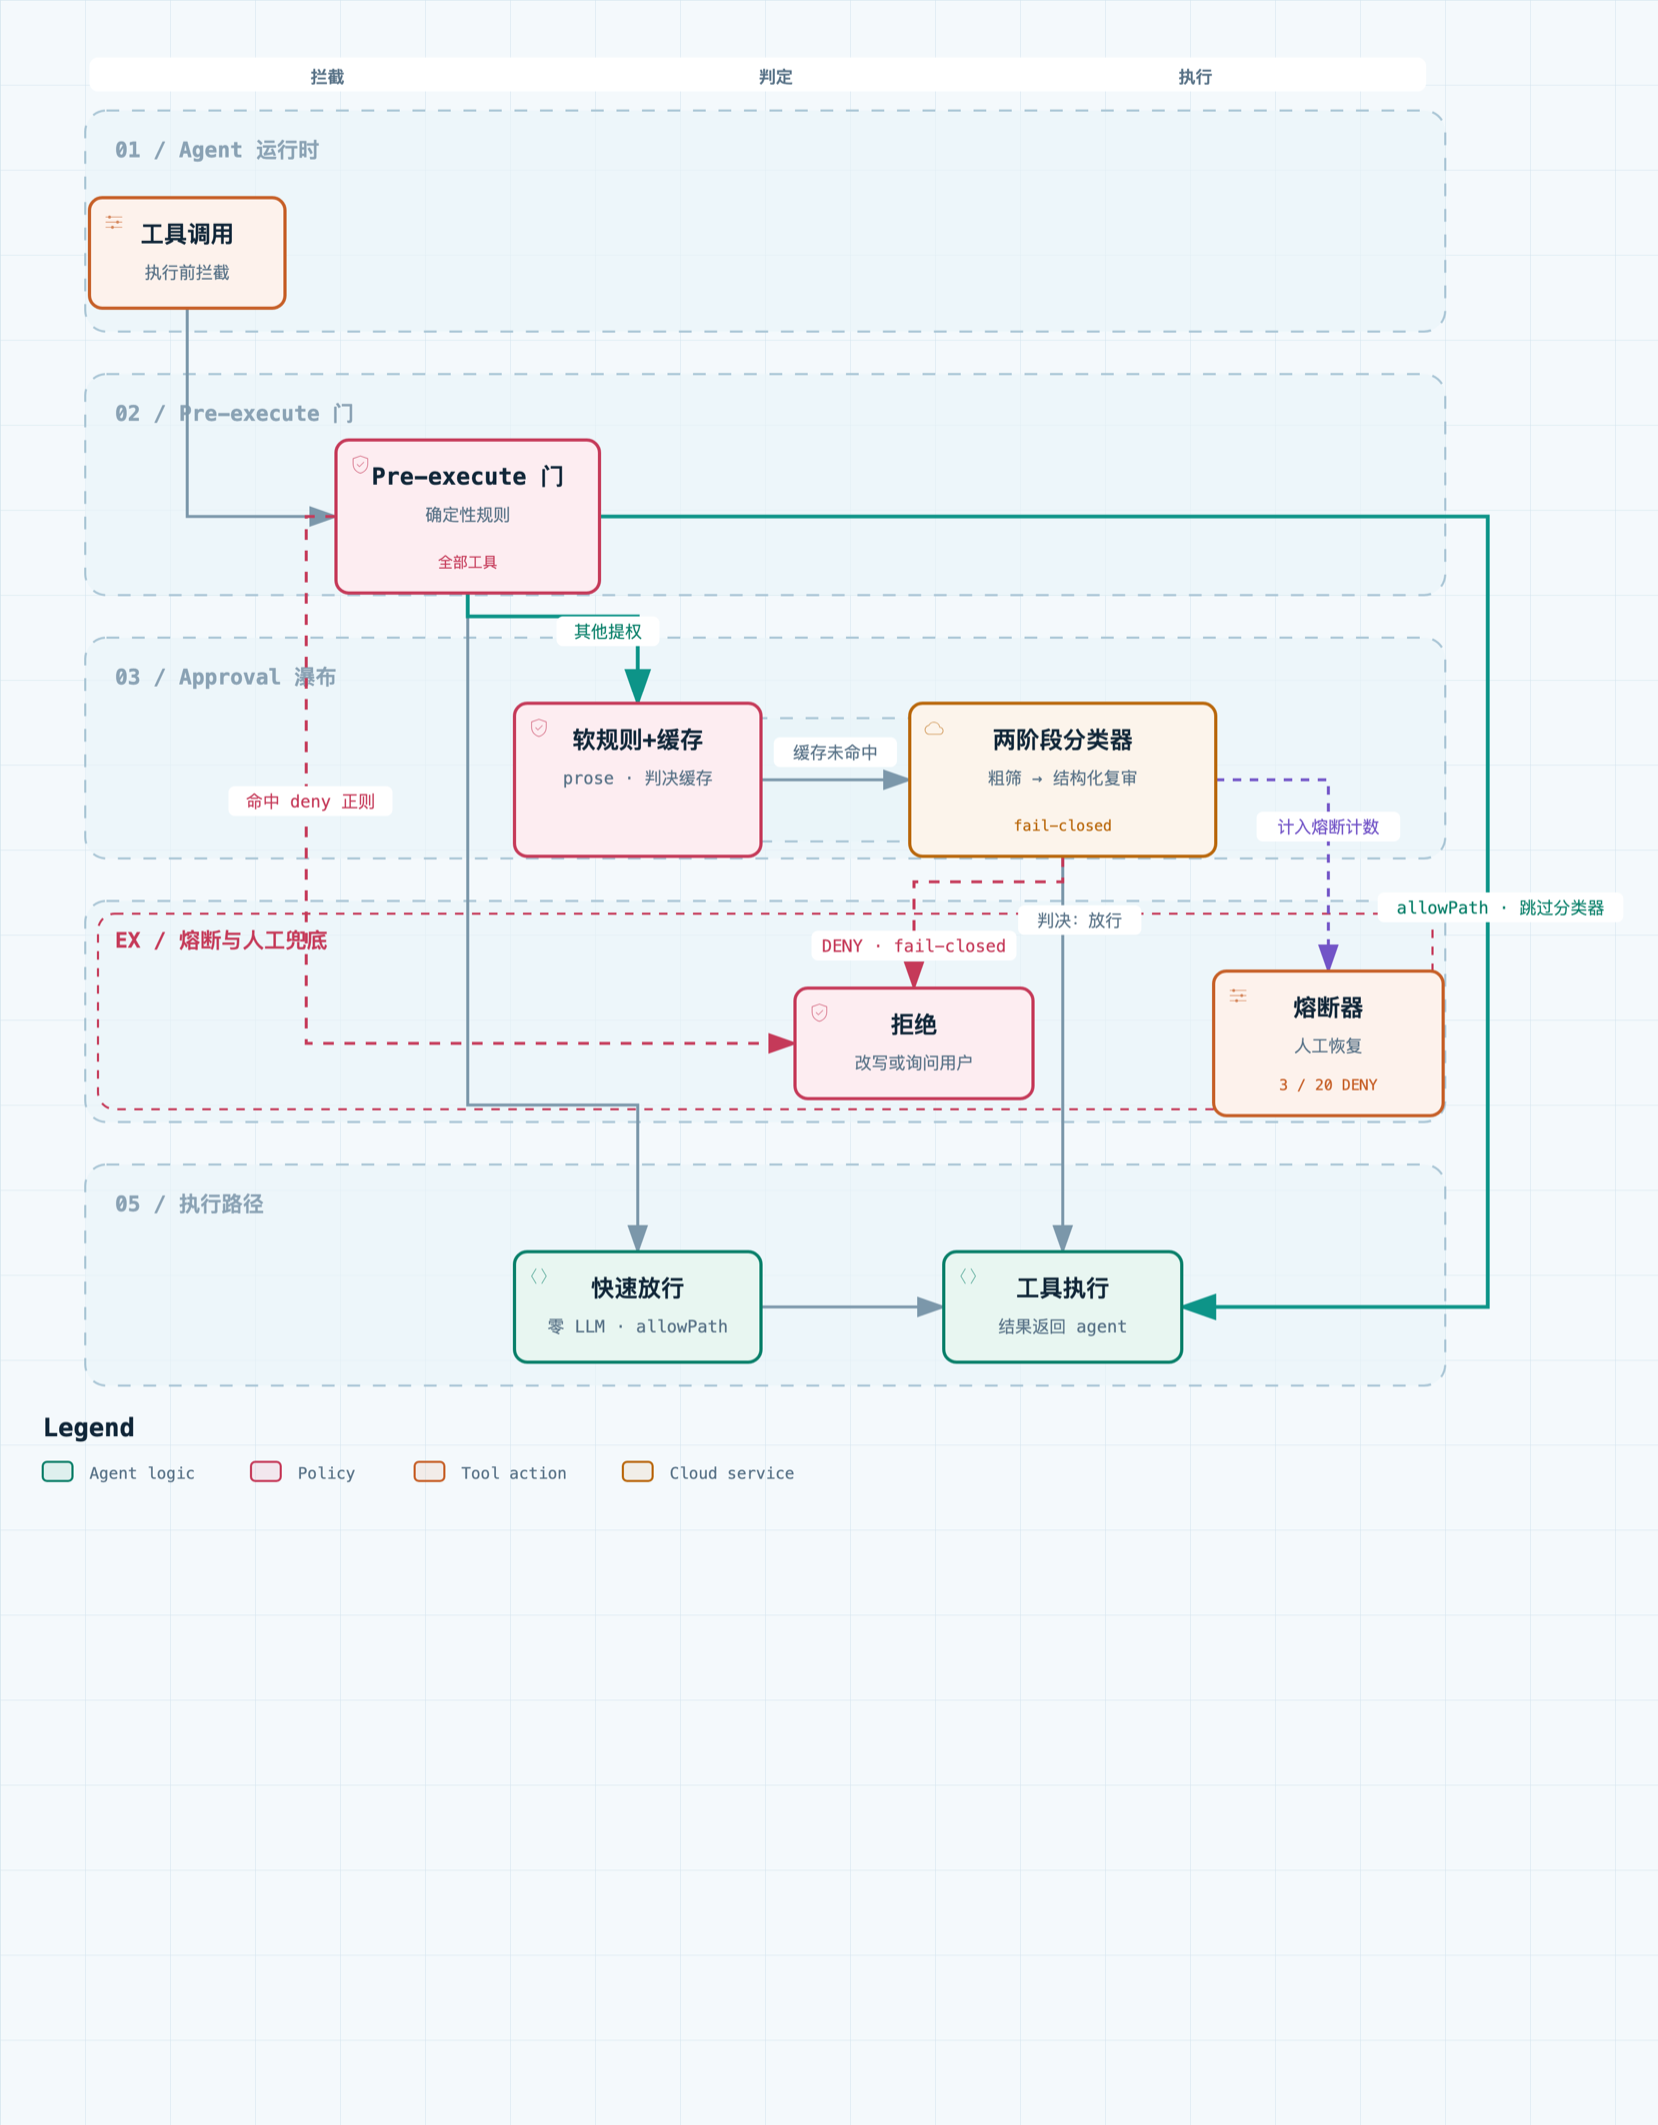
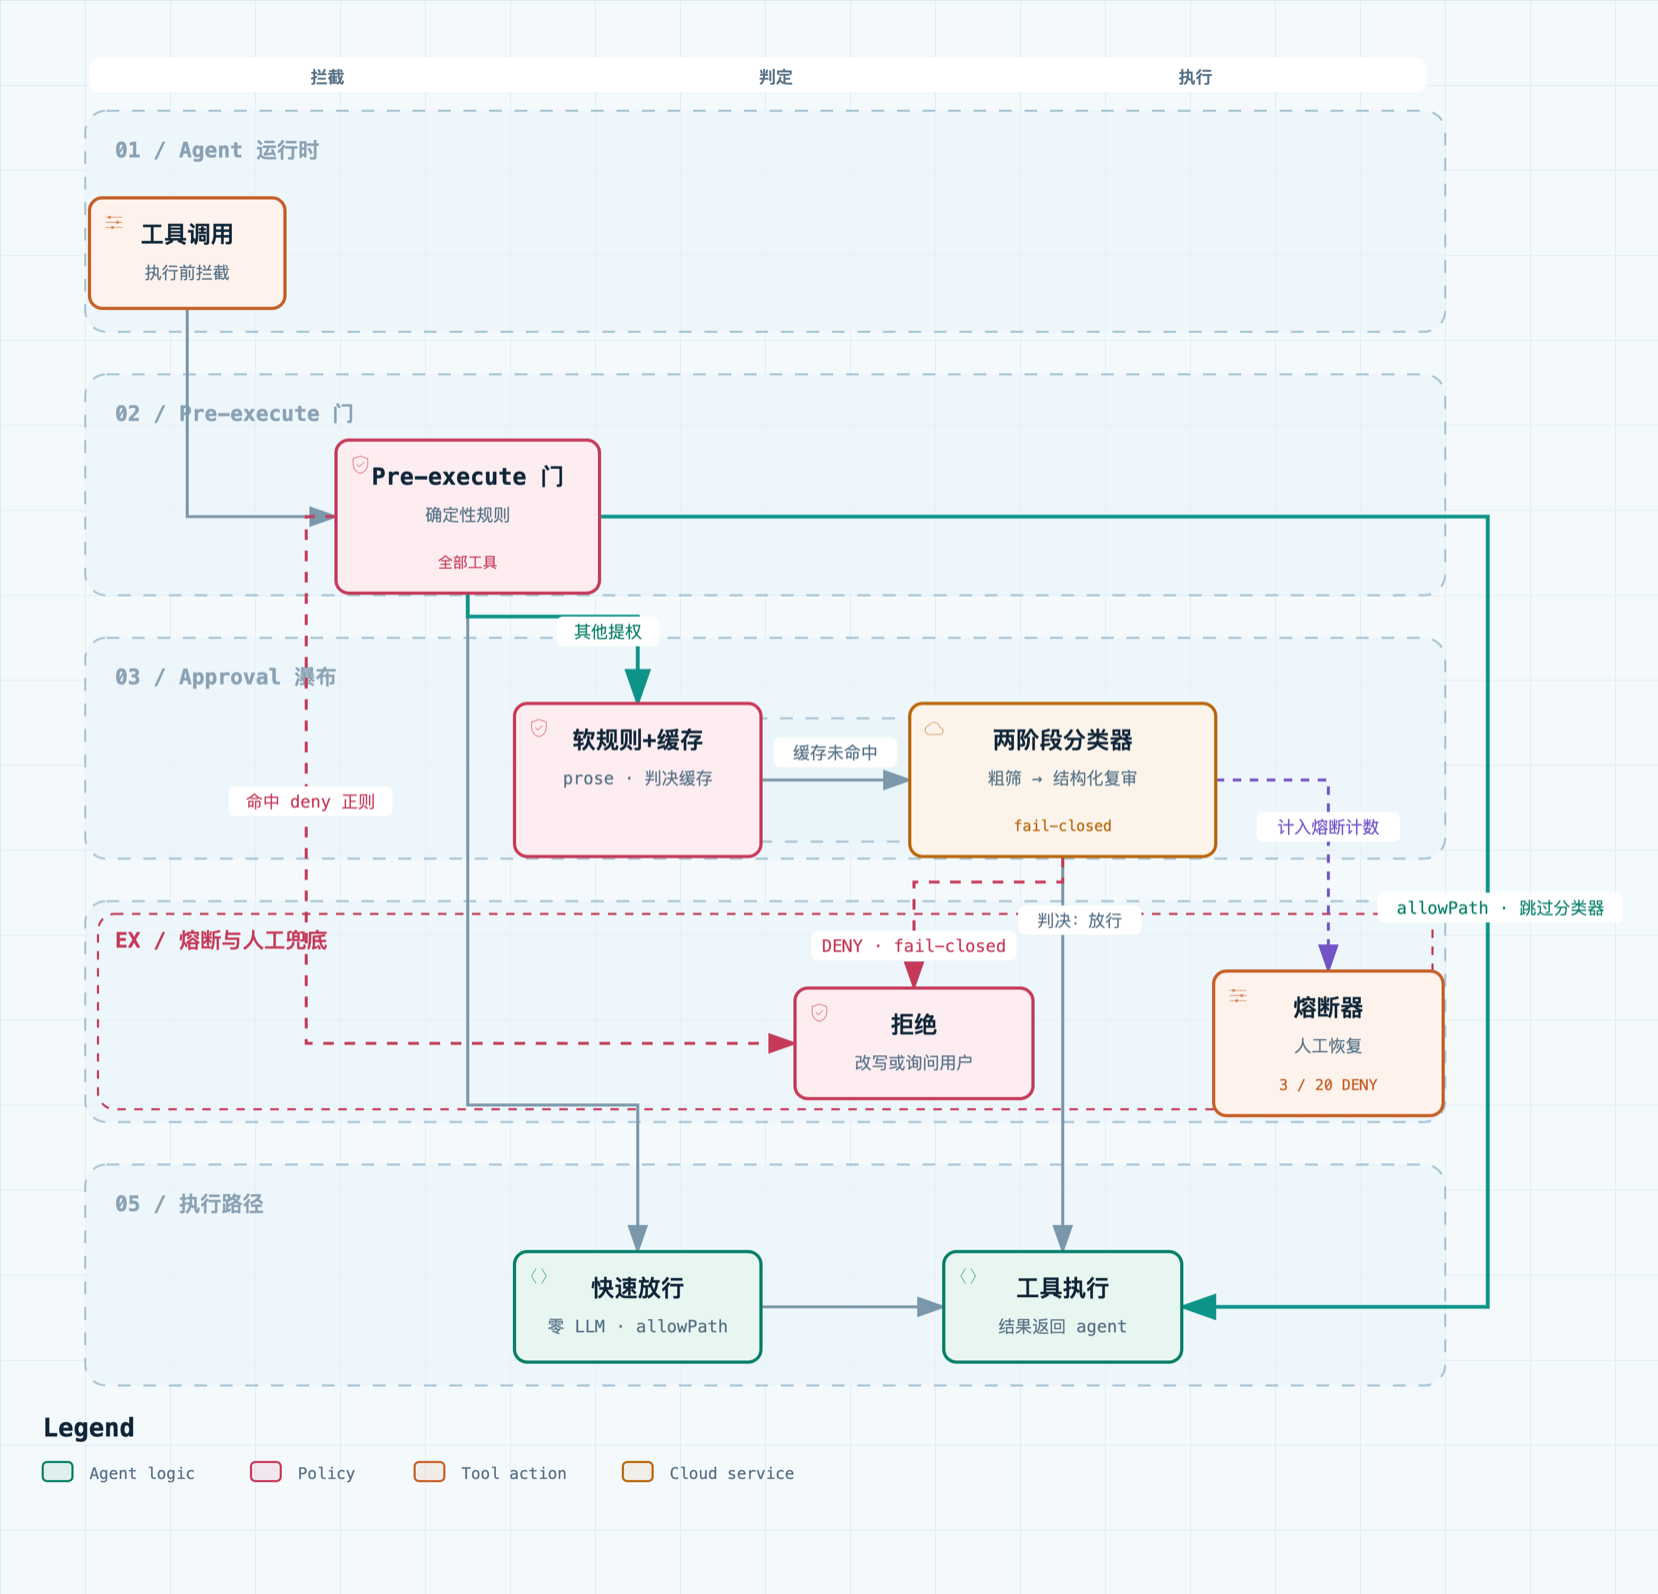
docs: finalize README hero layout + trim flow-diagram whitespace
Per user review:
- keep the picker screenshot (docs/auto-mode-icon.png) as the single hero
  image, placed below the badge wall, rendered at width 400 (it is a wide
  1062x570 screenshot, not a logo — 128px was too small); removed the
  duplicate copy in the Install section.
- the pipeline flow diagram lives only in "How it works" (further down), not
  in the hero.
- trim the flow diagram's oversized viewBox 780x1000 -> 780x750: content only
  spans y~52-697, so ~300px of blank bottom (also baked into the exported PNG)
  is removed; bottom margin now ~53px, balanced with the top. Re-validated
  archify showcase 9/9 (0 errors/warnings), re-delivered HTML, re-exported PNG
  via the page rasterizer (1658x1594).
- en/zh mirrored.

diff --git a/docs/auto-mode-flow.zh.html b/docs/auto-mode-flow.zh.html
@@ -4920,7 +4920,7 @@
 
     <!-- Main Diagram -->
     <div class="diagram-container" data-detail-level="read">
-      <svg viewBox="0 0 780 1000" role="img" aria-labelledby="archify-diagram-title archify-diagram-description" data-preset="signal-flow" data-quality-profile="showcase">
+      <svg viewBox="0 0 780 750" role="img" aria-labelledby="archify-diagram-title archify-diagram-description" data-preset="signal-flow" data-quality-profile="showcase">
         <title id="archify-diagram-title">dsh-automode 拦截管线</title>
         <desc id="archify-diagram-description">A workflow diagram generated by Archify.</desc>
         <!-- Definitions -->

diff --git a/docs/auto-mode-flow.html b/docs/auto-mode-flow.html
@@ -4920,7 +4920,7 @@
 
     <!-- Main Diagram -->
     <div class="diagram-container" data-detail-level="read">
-      <svg viewBox="0 0 780 1000" role="img" aria-labelledby="archify-diagram-title archify-diagram-description" data-preset="signal-flow" data-quality-profile="showcase">
+      <svg viewBox="0 0 780 750" role="img" aria-labelledby="archify-diagram-title archify-diagram-description" data-preset="signal-flow" data-quality-profile="showcase">
         <title id="archify-diagram-title">dsh-automode Pipeline</title>
         <desc id="archify-diagram-description">A workflow diagram generated by Archify.</desc>
         <!-- Definitions -->

diff --git a/README.md b/README.md
@@ -1,7 +1,5 @@
 <div align="center">
 
-<img src="docs/auto-mode-icon.png" width="128" alt="dsh-automode" />
-
 # dsh-automode ⚡
 
 **Claude Code–style auto mode for DeepSeek Harness** — let your agent run hands-free, while a deterministic guardrail and a cost-aware reviewer keep the dangerous stuff from ever executing.
@@ -16,11 +14,9 @@
 [![TypeScript](https://img.shields.io/github/languages/top/log-li/dsh-automode)](https://github.com/log-li/dsh-automode)
 [![DSH plugin](https://img.shields.io/badge/DSH%20plugin-ecosystem-2ea043)](https://github.com/topics/dsh-plugin)
 
+<img src="docs/auto-mode-icon.png" width="400" alt="dsh-automode in the permission picker" />
+
 </div>
-
-![Auto-mode tool-call guard pipeline](docs/auto-mode-flow.png)
-
-> 🖱 **Interactive version**: [docs/auto-mode-flow.html](docs/auto-mode-flow.html) — pan/zoom, relationship tracing, dark mode. Diagram source: [`docs/auto-mode-flow.workflow.json`](docs/auto-mode-flow.workflow.json).
 
 ---
 
@@ -63,8 +59,6 @@ dsh plugin add ./path/to/dsh-automode
 
 Restart `dsh web` after installing. The permission picker (bottom-left of the chat box) will show **Auto mode** alongside read-only / workspace-write / danger-full-access.
 
-![Auto mode in the permission picker](docs/auto-mode-icon.png)
-
 ## Commands
 
 ```text
@@ -93,6 +87,10 @@ Tool call arrives
        ⑤ Classifier (two-stage: one-token filter → structured review)
        ⑥ Failure → fail-closed
 ```
+
+![Auto-mode tool-call guard pipeline](docs/auto-mode-flow.png)
+
+> 🖱 **Interactive version**: [docs/auto-mode-flow.html](docs/auto-mode-flow.html) — pan/zoom, relationship tracing, dark mode. Diagram source: [`docs/auto-mode-flow.workflow.json`](docs/auto-mode-flow.workflow.json).
 
 The pre-execute gate intercepts ALL tool calls (including those inside the workspace sandbox that would never trigger the approval waterfall). The approval waterfall only runs for calls that actually need sandbox escalation. The pre-execute gate only applies to **auto-mode** sessions; in other presets (read-only / workspace-write / danger-full-access) it is a no-op so it never contradicts the sandbox the user chose.
 

diff --git a/README.zh.md b/README.zh.md
@@ -1,7 +1,5 @@
 <div align="center">
 
-<img src="docs/auto-mode-icon.png" width="128" alt="dsh-automode" />
-
 # dsh-automode ⚡
 
 **面向 DeepSeek Harness 的 Claude Code 风格自动模式：让 agent 放手自主执行，同时由确定性护栏 + 低成本复审模型把危险操作挡在执行之前。**
@@ -16,11 +14,9 @@
 [![TypeScript](https://img.shields.io/github/languages/top/log-li/dsh-automode)](https://github.com/log-li/dsh-automode)
 [![DSH plugin](https://img.shields.io/badge/DSH%20plugin-ecosystem-2ea043)](https://github.com/topics/dsh-plugin)
 
+<img src="docs/auto-mode-icon.png" width="400" alt="dsh-automode" />
+
 </div>
-
-![Auto mode 工具调用拦截管线](docs/auto-mode-flow.zh.png)
-
-> 🖱 **可交互版本**：[docs/auto-mode-flow.zh.html](docs/auto-mode-flow.zh.html) —— 平移缩放、关系追踪、暗色模式。图表源数据：[`docs/auto-mode-flow.zh.workflow.json`](docs/auto-mode-flow.zh.workflow.json)。
 
 ---
 
@@ -63,8 +59,6 @@ dsh plugin add ./path/to/dsh-automode
 
 安装后重启 `dsh web`。权限选择器（聊天框左下角）会显示 **Auto mode**，与只读 / workspace-write / danger-full-access 并列。
 
-![权限选择器中的 Auto mode](docs/auto-mode-icon.png)
-
 ## 命令
 
 ```text
@@ -93,6 +87,10 @@ dsh plugin add ./path/to/dsh-automode
        ⑤ 分类器（两阶段：one-token 预筛 → 结构化裁决）
        ⑥ 失败 → fail-closed
 ```
+
+![Auto mode 工具调用拦截管线](docs/auto-mode-flow.zh.png)
+
+> 🖱 **可交互版本**：[docs/auto-mode-flow.zh.html](docs/auto-mode-flow.zh.html) —— 平移缩放、关系追踪、暗色模式。图表源数据：[`docs/auto-mode-flow.zh.workflow.json`](docs/auto-mode-flow.zh.workflow.json)。
 
 pre-execute 门拦截**所有**工具调用（包括工作区沙箱内、本来不会触发 approval 瀑布的那些）。approval 瀑布只对真正需要沙箱升级的调用运行。pre-execute 门**仅对 auto-mode 会话生效**；在其他 preset（read-only / workspace-write / danger-full-access）下它是 no-op，不会与你所选沙箱冲突。
 
